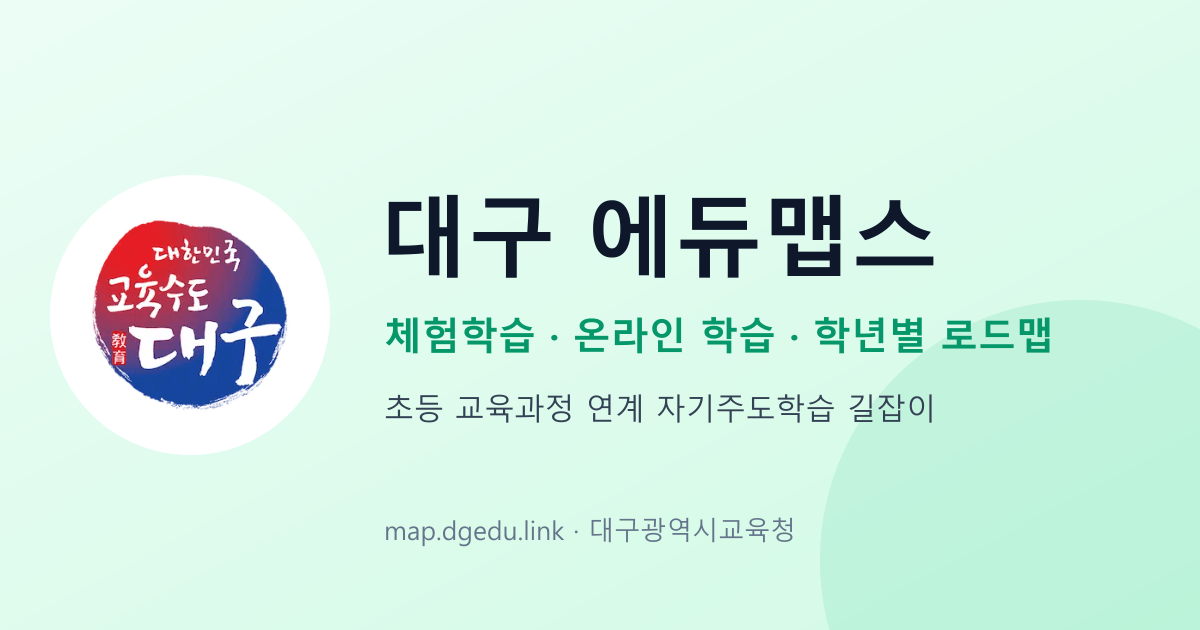
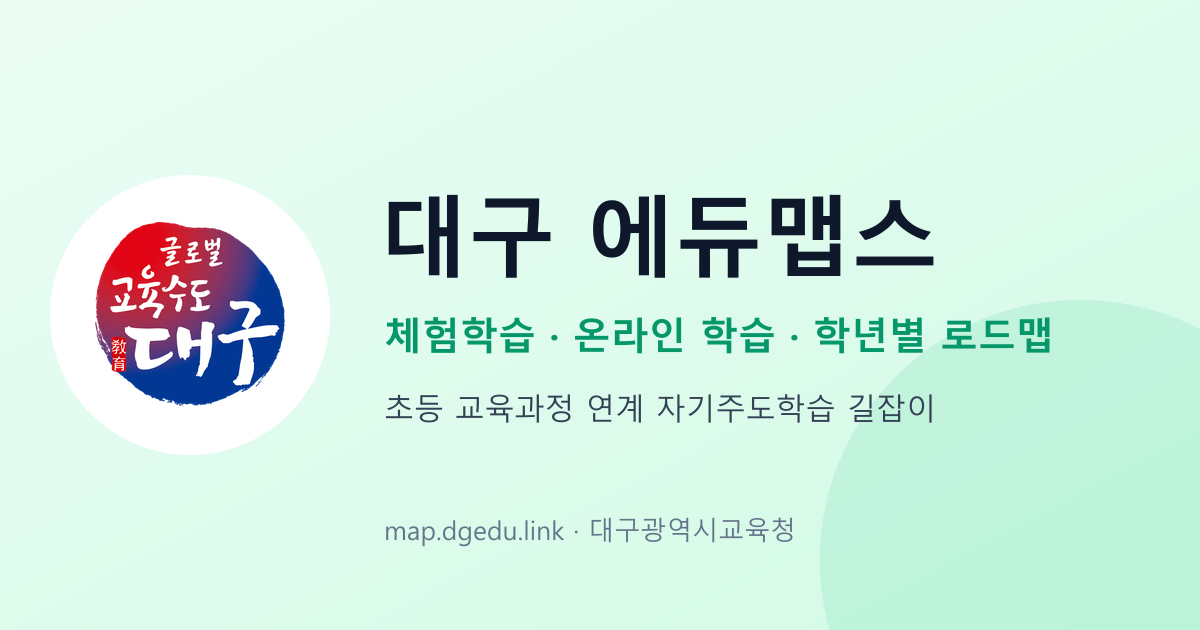
chore(brand): 교육수도 대구 새 로고로 교체 (아이콘·og 이미지)

Changed region(s): [[0.0617, 0.3317, 0.2467, 0.6333], [0.1233, 0.6333, 0.185, 0.6635]]

diff --git a/docs/CHANGELOG.md b/docs/CHANGELOG.md
@@ -2,6 +2,10 @@
 
 모든 주목할 만한 변경 사항을 이 파일에 기록합니다.
 
+## [2026.11.17] - 교육수도 대구 로고 교체
+
+- 새 '글로벌 교육수도 대구' 로고로 교체: 아이콘 `src/app/icon.webp`, 공유 미리보기 `public/og.png`. 배포 전.
+
 ## [2026.10.07] - 디자인·버그 개선, 데이터 D1 이관 준비, 의견 보내기
 
 > 계획: `docs/plan-ux-audit-2026-10.md` (v2). 로컬 미리보기(`wrangler pages dev`)로 검증, 원격 D1 적용·배포 전.
